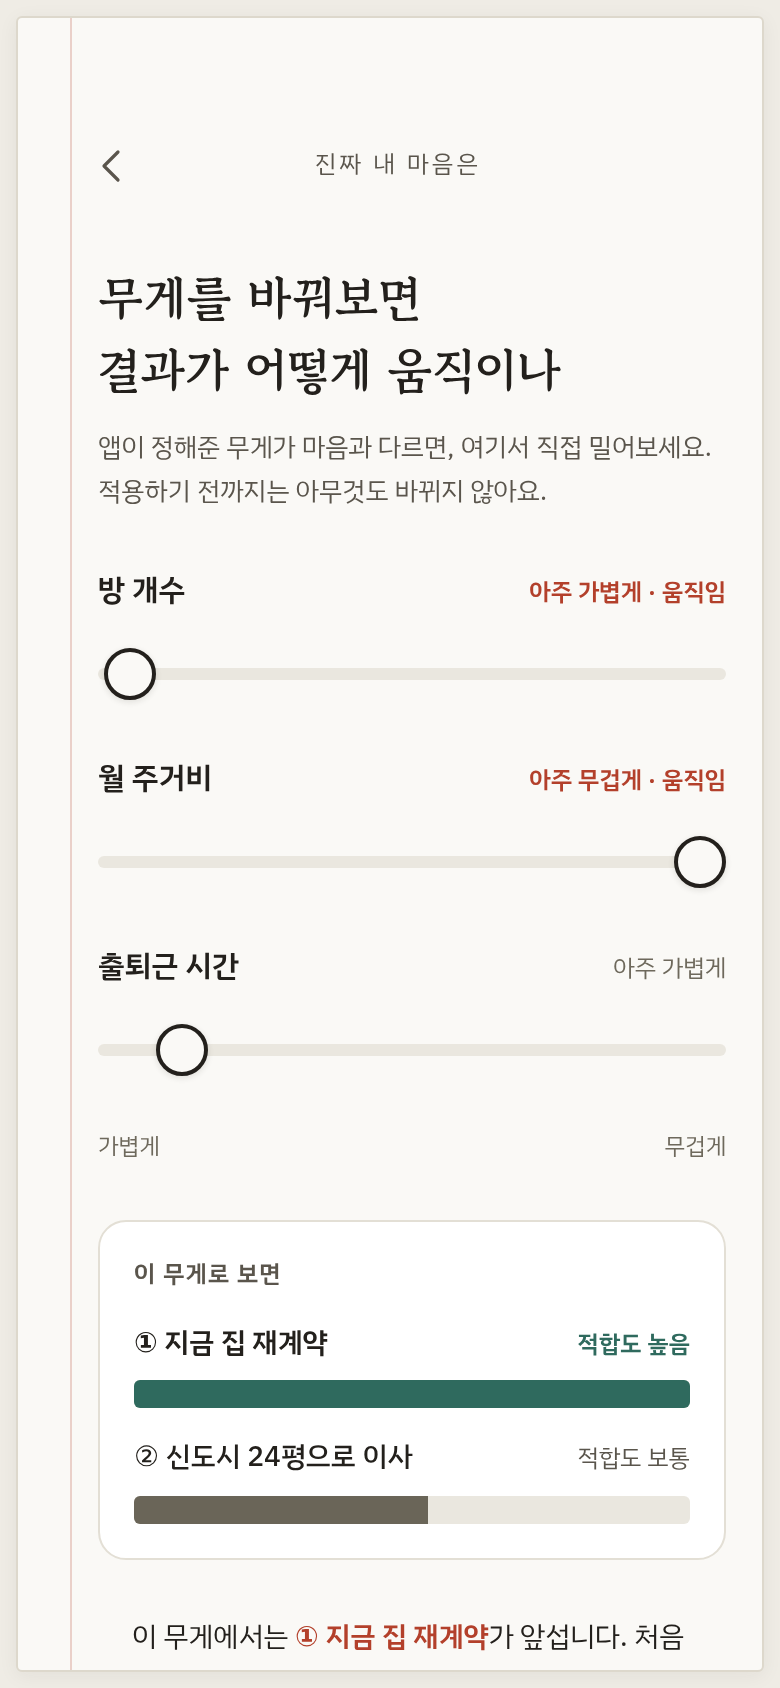
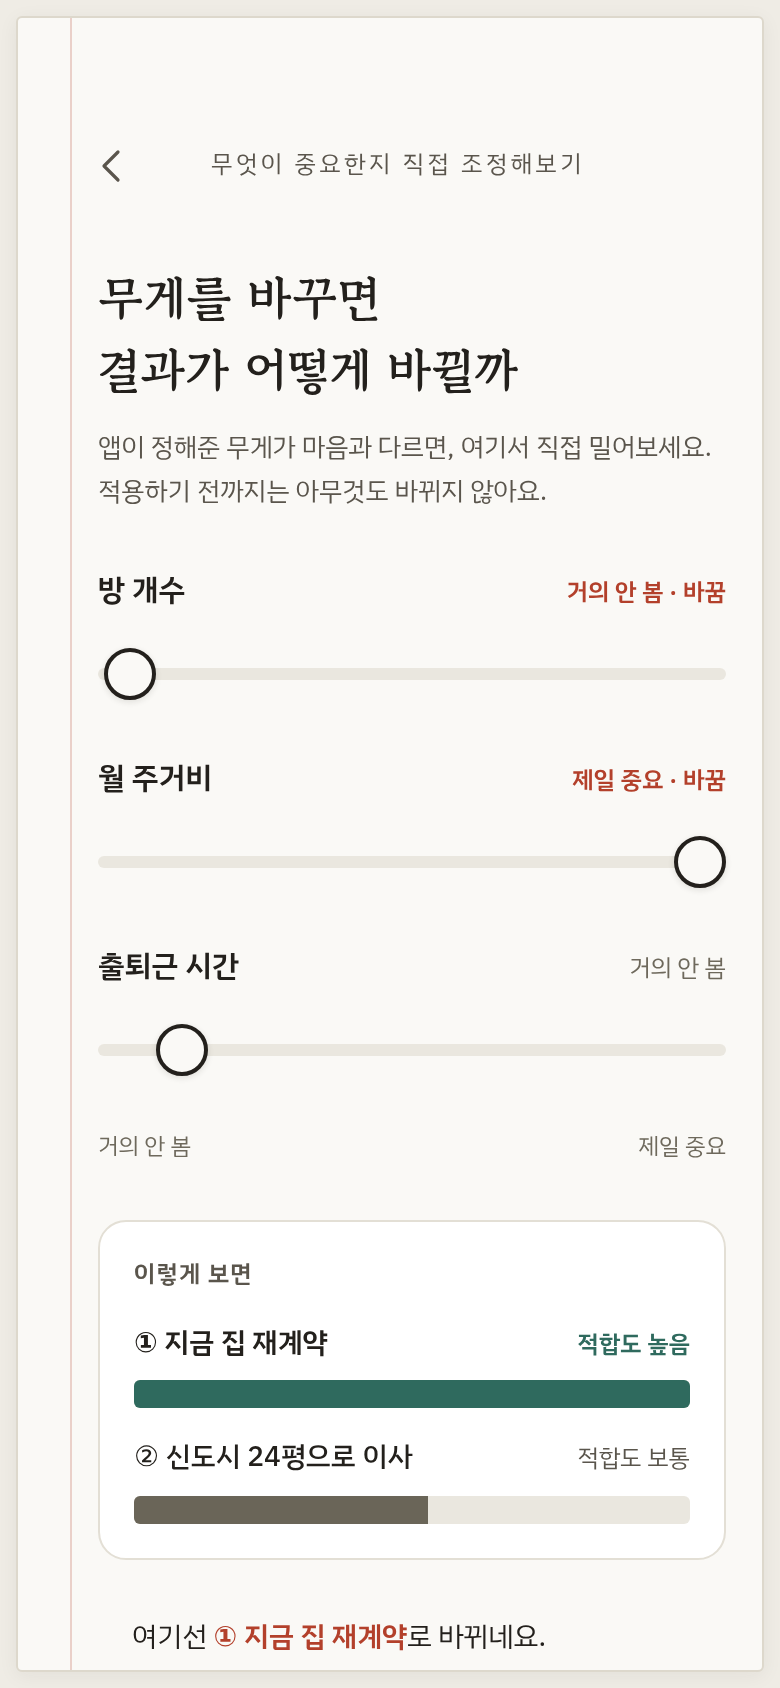
fix: 무게를 바꿔도 확정 화면이 처음 답을 계속 보여주던 문제
무게를 직접 조정해 1위가 바뀌고 결과 화면도 새 답을 보여주는데, 확정 화면만
처음 답을 그대로 내놓았다. 결과와 확정이 서로 다른 답을 말하는 셈이라
무게를 바꾼 의미가 사라졌다.

원인은 두 군데였다.
- chosenId를 `decision.commit?.alternativeId ?? leader.alternativeId`로 잡아,
  한 번 확정하면 그때 고른 선택지가 고정됐다
- patchCommit에서 `...d.commit`이 기본값 뒤에 펼쳐져 예전 alternativeId가
  새로 계산한 값을 덮었다

답은 지금 무게로 계산한 1위를 따르게 했다. 확정 기록을 조용히 갈아끼우지
않도록, 들어온 시점의 선택지를 한 번 붙잡아 두고 달라졌을 때
"처음엔 ① ○○로 정했었습니다"를 함께 보여준다.

스모크에 결과와 확정이 같은 답을 말하는지 검사를 넣었다. 예전 코드에서는
이 검사가 떨어진다.

■ 교정지 2회차 문구 (20문항)
- 조정 화면 13곳. 이름은 '무엇이 중요한지 직접 조정해보기'
- 무게를 읽는 다섯 단어를 '제일 중요 / 중요 / 보통 / 덜 중요 / 거의 안 봄'으로.
  숫자를 안 보여주기로 한 이상 이 단어들이 무게를 읽는 유일한 창구다
- 이름 충돌 해소: 보관함 제목과 상단바를 모두 '보관함'으로. 앱 이름
  '결정 노트', 홈 목록 '지난 결정기록'과 겹치지 않게
- 평가의 근거 질문은 원문 '그렇게 생각한 이유가 있나요?'로 되돌렸다
- 동기화 설명은 '켜면 서버에도 사본이 생깁니다. 계정은 만들지 않아요.'

테스트 118개, 스모크 47개 항목 통과.

Claude-Session: https://claude.ai/code/session_01DfCYJNm8fnv5qvTtHT6e4k

diff --git a/src/screens/Explore.tsx b/src/screens/Explore.tsx
@@ -86,10 +86,10 @@ export function Explore() {
 
   return (
     <Paper>
-      <TopBar back={`/d/${decision.id}/why`} backLabel="자세히로 돌아가기" center="진짜 내 마음은" />
+      <TopBar back={`/d/${decision.id}/why`} backLabel="자세히로 돌아가기" center="무엇이 중요한지 직접 조정해보기" />
 
       <div style={{ marginTop: 26 }}>
-        <Title lines={['무게를 바꿔보면', '결과가 어떻게 움직이나']} size={24} />
+        <Title lines={['무게를 바꾸면', '결과가 어떻게 바뀔까']} size={24} />
       </div>
       <p className="lede m-lift" style={delay(0, 'm-lift', 240)}>
         앱이 정해준 무게가 마음과 다르면, 여기서 직접 밀어보세요. 적용하기 전까지는 아무것도 바뀌지 않아요.
@@ -106,7 +106,7 @@ export function Explore() {
                 <span className="tune__name">{criterion.name}</span>
                 <span className={`tune__weight${wasChanged ? ' is-moved' : ''}`}>
                   {weightWord(weights[i] ?? 0, draft.length)}
-                  {wasChanged && ' · 움직임'}
+                  {wasChanged && ' · 바꿈'}
                 </span>
               </div>
               <input
@@ -124,14 +124,14 @@ export function Explore() {
           )
         })}
         <div className="tune__ends" style={{ marginTop: 0 }}>
-          <span>가볍게</span>
-          <span>무겁게</span>
+          <span>거의 안 봄</span>
+          <span>제일 중요</span>
         </div>
       </div>
 
       {/* ── 지금 이 무게로 보면 ─────────────────────── */}
       <div className="card" style={{ marginTop: 26, padding: 17 }}>
-        <div className="card__label">이 무게로 보면</div>
+        <div className="card__label">이렇게 보면</div>
         <div className="stack" style={{ marginTop: 14, gap: 14 }}>
           {after.ranked.map((alt, i) => (
             <div key={alt.alternativeId}>
@@ -160,15 +160,18 @@ export function Explore() {
         <p style={{ margin: 0, fontSize: 14, lineHeight: 1.75 }}>
           {flipped ? (
             <>
-              이 무게에서는 <strong style={{ color: 'var(--pen)' }}>{ordinalMark(leaderAfter!.ordinal)} {leaderAfter!.name}</strong>
-              가 앞섭니다. 처음 계산과 달라졌어요.
+              여기선{' '}
+              <strong style={{ color: 'var(--pen)' }}>
+                {ordinalMark(leaderAfter!.ordinal)} {leaderAfter!.name}
+              </strong>
+              로 바뀌네요.
             </>
           ) : moved ? (
             <>
               꽤 움직였는데도 1위는 그대로예요. 이 결과는 무게에 크게 흔들리지 않습니다.
             </>
           ) : (
-            <>손잡이를 밀어보세요. 어느 기준을 무겁게 봐야 결과가 바뀌는지 바로 보입니다.</>
+            <>마음이 가는 대로 밀어보세요. 그게 진짜 내 기준일 수 있어요.</>
           )}
         </p>
       </div>
@@ -180,7 +183,7 @@ export function Explore() {
           style={{ alignSelf: 'flex-start', marginTop: 4 }}
           onClick={reset}
         >
-          원래 무게로 되돌리기
+          되돌리기
         </button>
       )}
 
@@ -204,16 +207,16 @@ export function Explore() {
       {/* ── 통찰 메모 ───────────────────────────────── */}
       <div className="insight" style={{ marginTop: 26 }}>
         <label htmlFor="insight" style={{ fontSize: 13, fontWeight: 600, color: 'var(--soft)' }}>
-          움직여보니 알게 된 것
+          진짜 중요했던 건
         </label>
         <textarea
           id="insight"
           value={note}
-          placeholder="여기에 적은 건 한 달 뒤 회고에서 다시 읽게 됩니다."
+          placeholder="나중에 이 한 줄이 제일 쓸모 있어요."
           onChange={(e) => setNote(e.target.value)}
         />
         <p style={{ margin: 0, fontSize: 12, lineHeight: 1.7, color: 'var(--meta)' }}>
-          정답을 적는 칸이 아니에요. “비용이라고 생각했는데 사실은 답답한 게 컸다” 같은 한 줄이면 충분합니다.
+          정리된 문장일 필요 없어요. 떠오른 그대로 적으면 됩니다.
         </p>
       </div>
 
@@ -222,12 +225,12 @@ export function Explore() {
       <div className="stack" style={{ gap: 10 }}>
         {decision.commit && moved && (
           <p className="meta" style={{ margin: 0, lineHeight: 1.7 }}>
-            이미 정한 결정이에요. 무게를 바꾸면 결과가 달라질 수 있습니다 — 기록은 그대로 남아요.
+            정한 결정이지만 다시 볼 수 있어요. 예전 기록은 지워지지 않습니다.
           </p>
         )}
         <div className="btnrow">
           <button type="button" className="btn btn--quiet" style={{ flexGrow: 1 }} onClick={saveNoteOnly}>
-            메모만 남기기
+            그냥 나가기
           </button>
           <button
             type="button"
@@ -236,7 +239,7 @@ export function Explore() {
             disabled={!moved}
             onClick={apply}
           >
-            이 무게로 바꾸기
+            이걸로 계산하기
           </button>
         </div>
       </div>
@@ -257,9 +260,9 @@ function weightWord(weight: number, count: number): string {
   if (count <= 1) return '전부'
   const even = 1 / count
   const ratio = weight / even
-  if (ratio >= 2.2) return '아주 무겁게'
-  if (ratio >= 1.35) return '무겁게'
-  if (ratio >= 0.75) return '고르게'
-  if (ratio >= 0.4) return '가볍게'
-  return '아주 가볍게'
+  if (ratio >= 2.2) return '제일 중요'
+  if (ratio >= 1.35) return '중요'
+  if (ratio >= 0.75) return '보통'
+  if (ratio >= 0.4) return '덜 중요'
+  return '거의 안 봄'
 }

diff --git a/src/screens/Commit.tsx b/src/screens/Commit.tsx
@@ -28,10 +28,26 @@ export function Commit() {
     return evaluate(decision).ranked[0] ?? null
   }, [decision])
 
+  /**
+   * 이 화면에 들어온 시점에 이미 정해져 있던 선택지.
+   * 무게를 바꿔 답이 달라졌을 때 "처음엔 이걸로 정했었다"를 말해주기 위해서만 쓴다.
+   * 확정 기록을 고치는 동안 값이 흔들리면 안 되므로 첫 렌더에서 한 번만 잡는다.
+   */
+  const [previousChoiceId] = useState<string | null>(() => decision?.commit?.alternativeId ?? null)
+
   if (!decision || !leader) return <Paper> </Paper>
 
-  // 이미 확정했다면 그 내용을 그대로 고친다.
-  const chosenId = decision.commit?.alternativeId ?? leader.alternativeId
+  /*
+   * 답은 **지금 무게로 계산한 1위**를 따른다.
+   *
+   * 예전에는 commit.alternativeId가 있으면 그걸 우선했는데, 그러면 '직접 조정해보기'에서
+   * 무게를 바꿔 1위가 달라져도 확정 화면은 처음 답을 계속 보여줬다. 결과 화면과 확정 화면이
+   * 서로 다른 답을 말하는 셈이라, 무게를 바꾼 의미가 없어진다.
+   */
+  const chosenId = leader.alternativeId
+  const choiceChanged = previousChoiceId !== null && previousChoiceId !== chosenId
+  const previousChoice = decision.alternatives.find((a) => a.id === previousChoiceId) ?? null
+  const previousOrdinal = decision.alternatives.findIndex((a) => a.id === previousChoiceId) + 1
   const chosen = decision.alternatives.find((a) => a.id === chosenId) ?? leader
   const chosenOrdinal = decision.alternatives.findIndex((a) => a.id === chosenId) + 1
   const reason = decision.commit?.reason ?? ''
@@ -45,13 +61,14 @@ export function Commit() {
       ...d,
       stage: 'committed',
       commit: {
-        alternativeId: chosenId,
         reason,
         confidence,
         committedAt,
         reviewScheduled: scheduled,
         reviewDueAt: dueAt,
         ...d.commit,
+        // 지금 무게가 가리키는 답으로 덮는다. 예전 기록이 이기면 무게를 바꾼 게 묻힌다.
+        alternativeId: chosenId,
         ...patch,
       },
     }))
@@ -85,6 +102,18 @@ export function Commit() {
           이걸로 정합니다.
         </span>
       </h1>
+
+      {choiceChanged && previousChoice && (
+        <div className="card--note m-settle" style={{ marginTop: 20, ...delay(0, 'm-settle', 220) }}>
+          <p style={{ margin: 0, fontSize: 14, lineHeight: 1.75 }}>
+            무게를 바꾸면서 답이 달라졌어요. 처음엔{' '}
+            <strong style={{ color: 'var(--pen)' }}>
+              {ordinalMark(previousOrdinal)} {previousChoice.name}
+            </strong>
+            로 정했었습니다.
+          </p>
+        </div>
+      )}
 
       <div className="write m-lift" style={{ marginTop: 30, gap: 6, ...delay(0, 'm-lift', 280) }}>
         <WriteField

diff --git a/src/screens/Settings.tsx b/src/screens/Settings.tsx
@@ -74,7 +74,7 @@ export function Settings() {
       <TopBar back="/" backLabel="홈으로" center="보관함" />
 
       <div style={{ marginTop: 32 }}>
-        <Title lines={['결정 기록 노트']} size={24} />
+        <Title lines={['보관함']} size={24} />
       </div>
 
       <div className="card m-settle" style={{ marginTop: 24, ...delay(0, 'm-settle', 240) }}>
@@ -90,7 +90,7 @@ export function Settings() {
             <div style={{ fontSize: 15, fontWeight: 600 }}>다른 기기에서도 보기</div>
             <div style={{ marginTop: 4, fontSize: 12, color: 'var(--soft)' }}>
               {configured
-                ? '켜면 기록이 서버로 올라갑니다. 이름도 이메일도 묻지 않아요.'
+                ? '켜면 서버에도 사본이 생깁니다. 계정은 만들지 않아요.'
                 : '이 빌드에는 서버 설정이 들어 있지 않아 기기 저장만 씁니다.'}
             </div>
           </div>

diff --git a/src/screens/Evaluate.tsx b/src/screens/Evaluate.tsx
@@ -148,7 +148,7 @@ export function Evaluate() {
 
       <div className="m-lift" style={{ marginTop: 30, ...delay(0, 'm-lift', 540) }}>
         <div style={{ fontSize: 13, fontWeight: 600, color: 'var(--soft)' }}>
-          그렇게 생각한 근거가 뭐예요?
+          그렇게 생각한 이유가 있나요?
         </div>
         <div className="btnrow" style={{ marginTop: 12, gap: 8 }} role="group" aria-label="점수의 근거">
           {EVIDENCES.map((evidence) => {

diff --git a/src/screens/Why.tsx b/src/screens/Why.tsx
@@ -173,7 +173,7 @@ export function Why() {
           className="btn btn--ghost m-lift"
           style={delay(0, 'm-lift', 660)}
         >
-          진짜 내 마음은
+          무엇이 중요한지 직접 조정해보기
         </Link>
         <Link
           to={`/d/${decision.id}/commit`}
